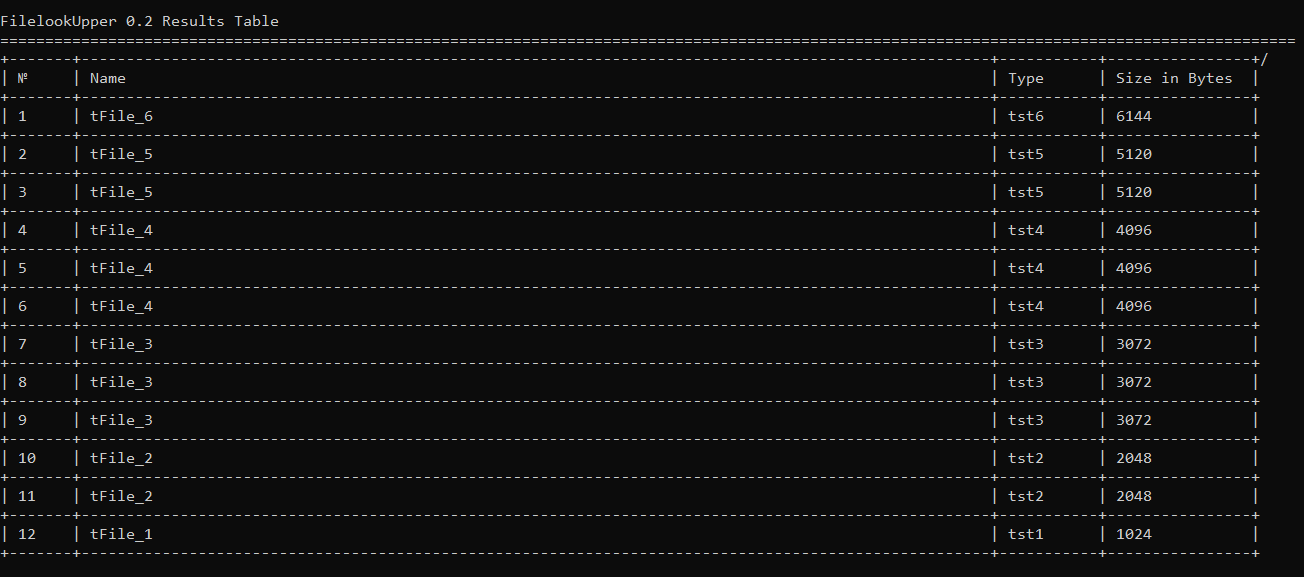
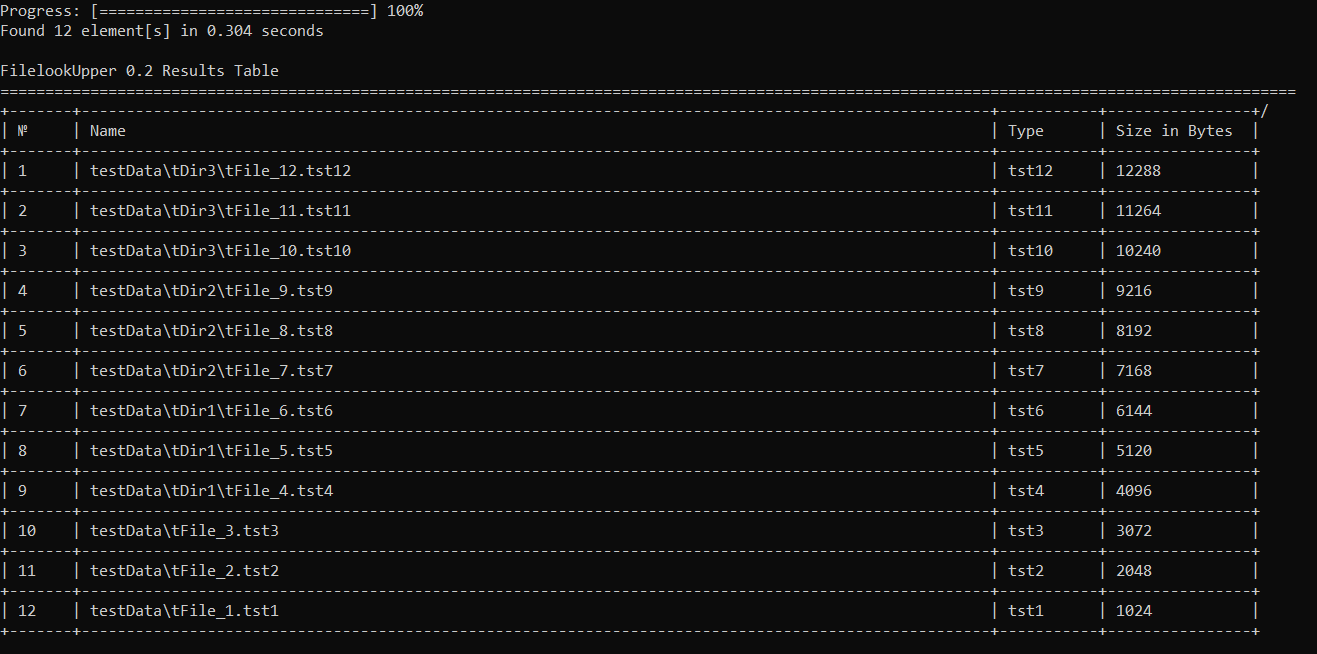
Readme update

Changed region(s): [[0.0, 0.0, 0.9816, 0.9671]]

diff --git a/README.md b/README.md
@@ -7,7 +7,10 @@ What it basically does is looks up directory sub structure of a given folder.
 For now it simply outputs information about directory stucture in a table form according to provided options like filters and sort rules.
 
 ![preview](preview.png)
-_Preview_
+_Preview example_
+```
+python -m lookup -r testData -c 0
+```
 ## Getting Started
 
 It is supposed to run as a script "lookup" from command line by providing it arguments like root path and processing options.
